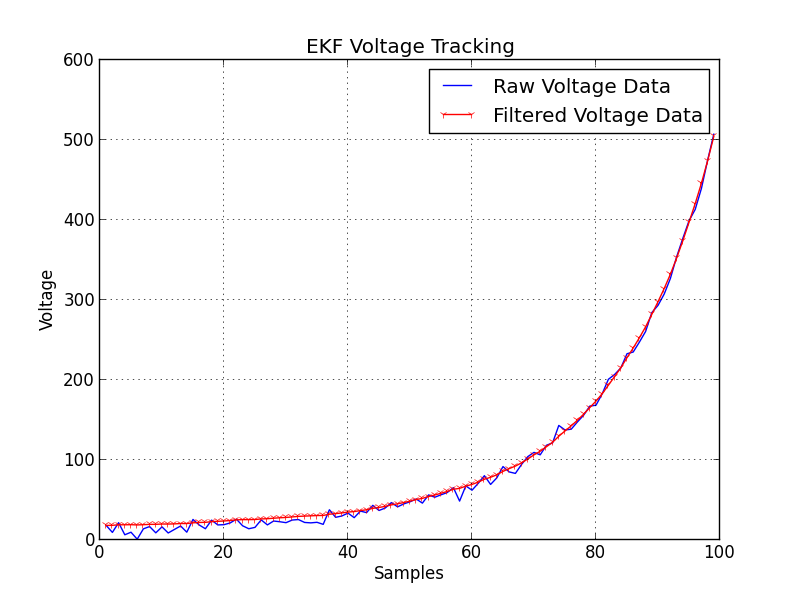
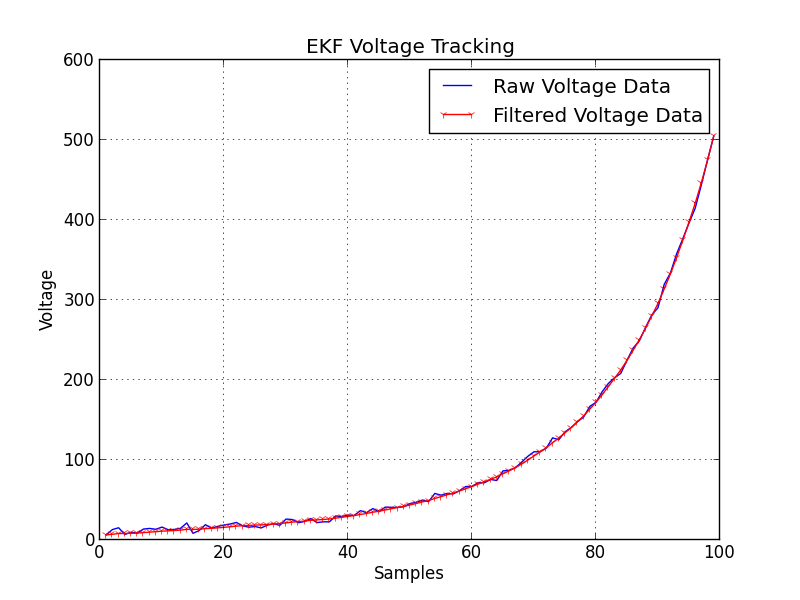
finishing fiddling around a bit

diff --git a/ekf.py b/ekf.py
@@ -126,12 +126,12 @@ class ExtendedKalman():
 numSamples = 100
 
 #our sensor simulators ... voltmeter and ammeter
-voltmeter = sensors.Voltmeter(0,5)
+voltmeter = sensors.Voltmeter(0,3)
 ammeter = sensors.Ammeter(0,2)
 #and their associated state transfer functions, sensor transfer functions, and noise values
-stateTransfer = lambda x: np.array([[math.pow(x[0][0],1.01)],[math.pow(x[1][0],.99)]]) 
+stateTransfer = lambda x: np.array([[math.pow(x[0][0],1.01)],[math.pow(x[1][0],.99)+5]]) 
 sensorTransfer = lambda x: x 
-sensorNoise = np.array([[math.pow(5,2),0],[0,math.pow(5,2)]])
+sensorNoise = np.array([[math.pow(3,2),0],[0,math.pow(2,2)]])
 
 #result log holders
 x_vals = []
@@ -201,8 +201,6 @@ plt.clf()
 plt.xlabel('Samples')
 plt.ylabel('Resistance')
 plt.title('EKF Resistance Tracking')
-plt.plot(x_vals,current_vals, color='blue', label="Raw Current Data")
-plt.plot(x_vals,volt_vals, color='green',label="Raw Voltage Data")
 plt.plot(x_vals,ekfr_vals,marker="2", color='red',label="Filtered Resistance Value")
 plt.legend()
 plt.savefig("resistance.png")

diff --git a/sensors.py b/sensors.py
@@ -1,9 +1,6 @@
 import math
 import numpy as np
 
-
-resistor = 50 #ohms
-
 class Voltmeter():
 	def __init__(self,noiseMean, noiseSTD):
 		self.noiseMean = noiseMean
@@ -12,7 +9,7 @@ class Voltmeter():
 
 	def getData(self):
 		"""
-		apply arbitrary function
+		state transfer function xi = (xi-1)^1.01
 		"""
 		noise = np.random.normal(self.noiseMean,self.noiseSTD,1)
 		self.prevData = math.pow(self.prevData,1.01); #state transfer is xi = (xi-1)^1.01 
@@ -27,11 +24,12 @@ class Ammeter():
 
 	def getData(self):
 		"""
-		apply arbitrary function
+		state transfer function xi = (xi-1)^.99 + 5
 		"""
 		noise = np.random.normal(self.noiseMean,self.noiseSTD,1)
-		self.prevData = math.pow(self.prevData,.99);  #state transfer is xi = sqrt(xi-1)
+		self.prevData = math.pow(self.prevData,.99)+5;  
 		return self.prevData + noise[0]
+
 
 
 class Voltmeter_Linear():
